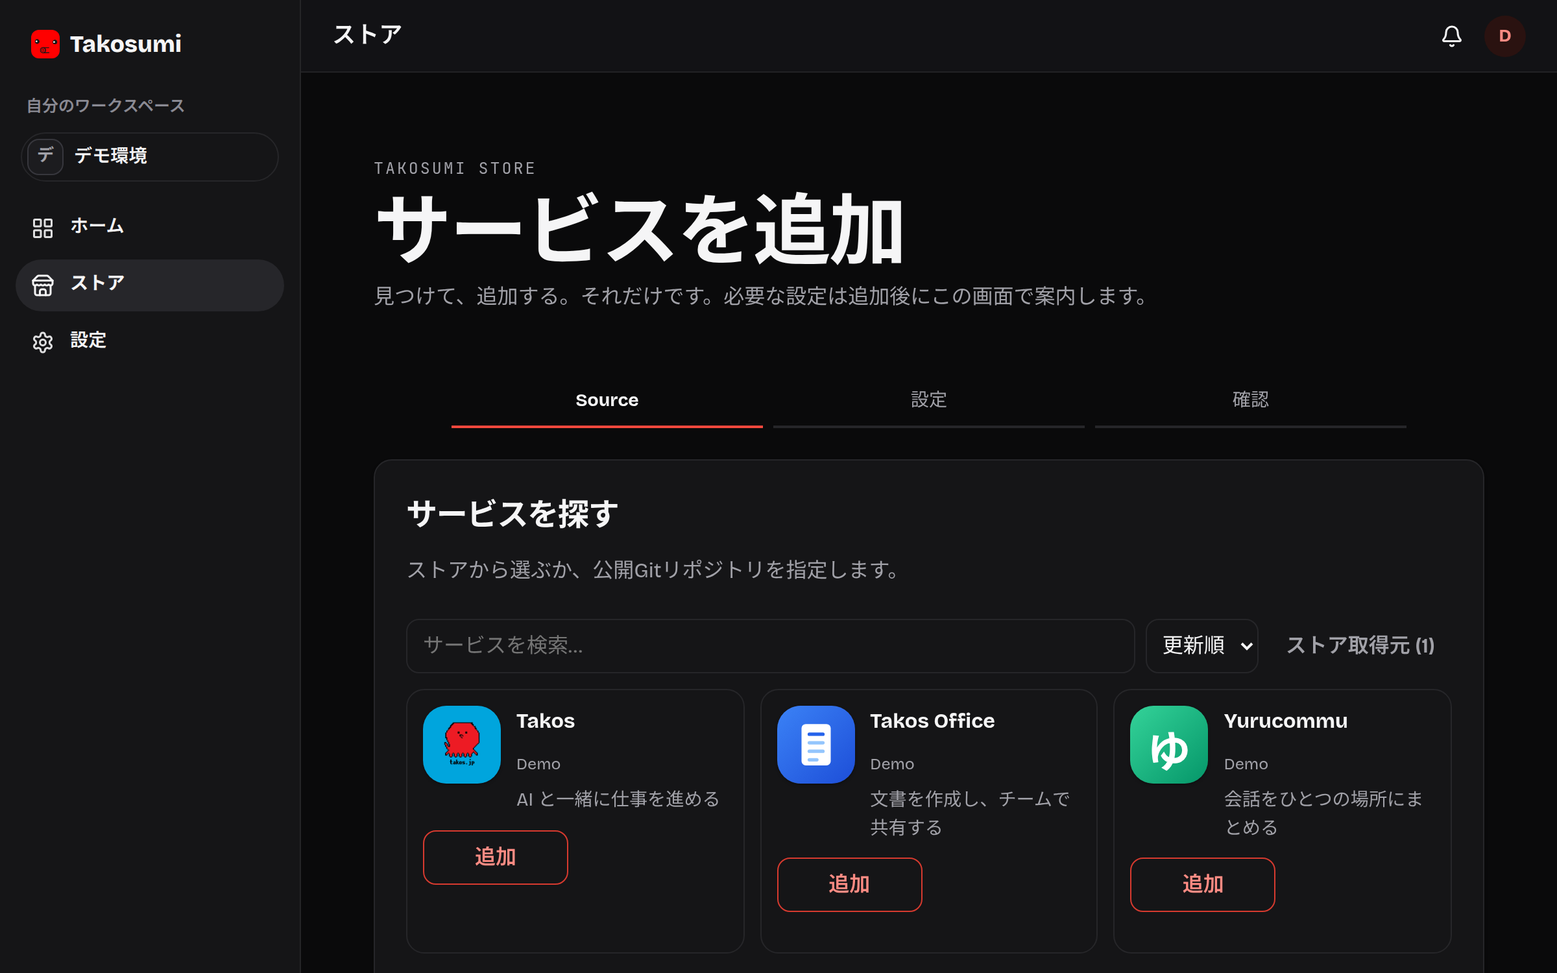
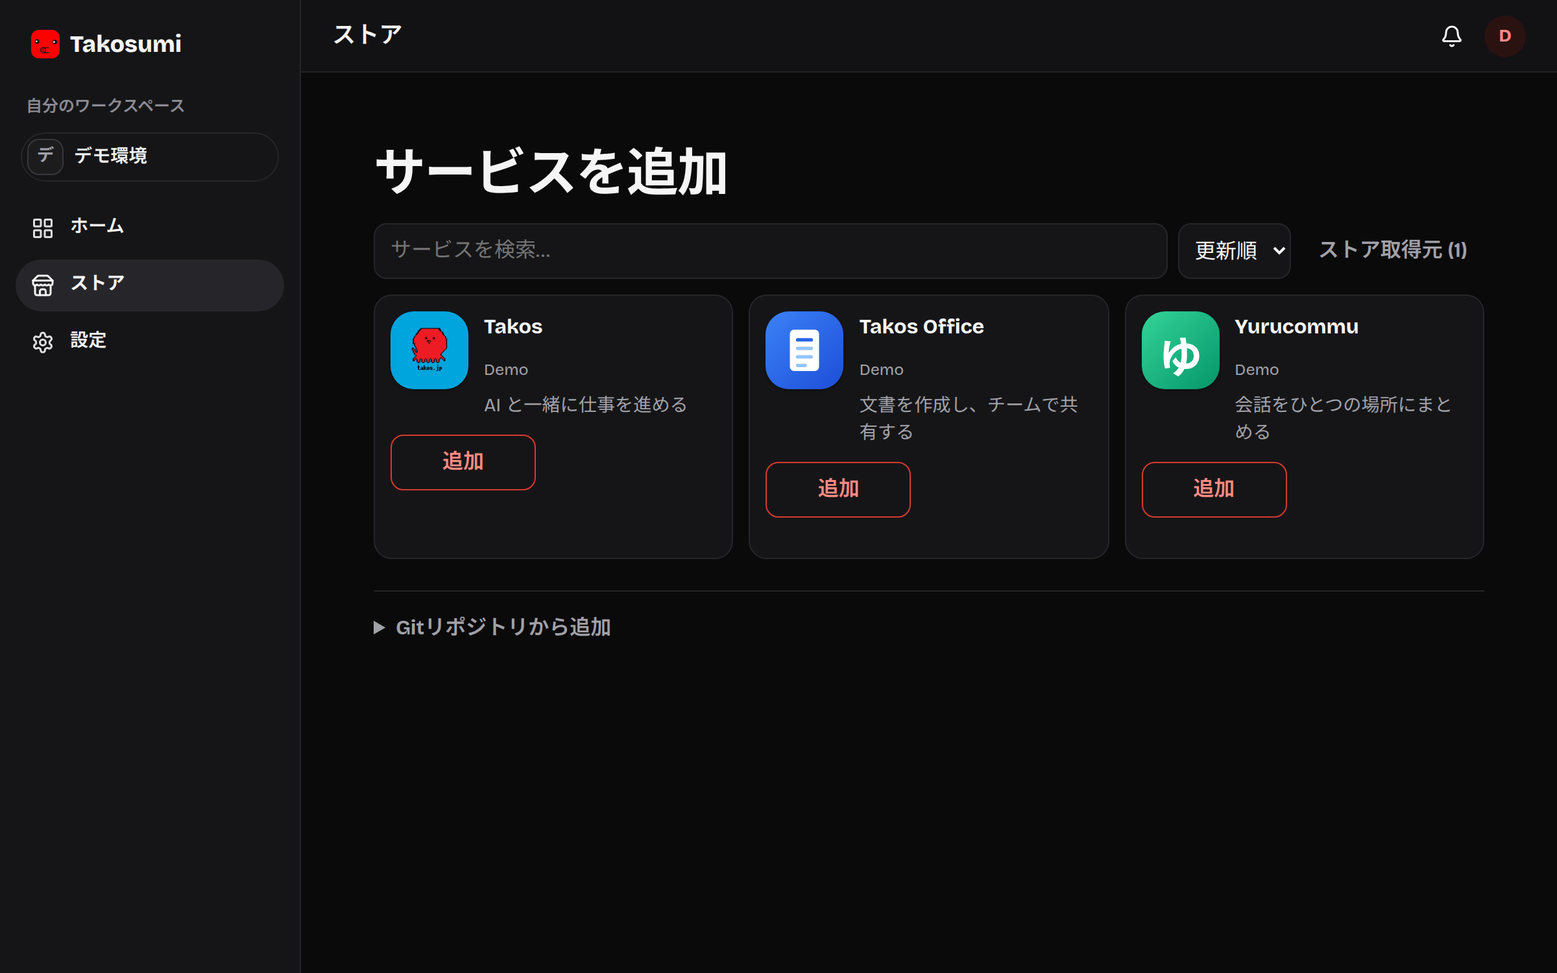
website: say what Takosumi is for and how adding an app works (#491)
* feat(website): add an interactive app installation walkthrough

* fix(website): show real dashboard screenshots in the hero

* fix(website): preserve full desktop screenshot proportions

* website: recapture the Store screens from the current dashboard

The landing's Store captures showed a 「Source」 tab and the heading
「見つけて、追加する。それだけです。」, neither of which the dashboard
has any more. The four Store images are recaptured with the documented
fixture script from the dashboard source at 46d87d185; a second run with
the documented Japanese font setup produced the same bytes, and Home
recaptured byte-identically, so its files are unchanged.

* website: say what adding an app involves, in the dashboard's terms

The landing described Takosumi as moving apps 「自分の環境へ」 three
times without saying what happens, said settings are checked after
adding (the dashboard asks for them before its review screen), and
called the review step 「承認」, a word the dashboard reserves for
deletions. An independent audit graded the value statement critical.

- The hero says what it is (open source apps installed like apps) and
  the actual sequence: choose, set connections and settings, check what
  will be created, then add, and open from the workspace home.
- The install section lists the dashboard's real steps (接続と設定,
  追加前の確認, 追加する), notes that changes with deletions wait for
  approval, links the Quickstart's screen-by-screen walkthrough, and
[…]

diff --git a/website/src/routes/index.tsx b/website/src/routes/index.tsx
@@ -49,8 +49,8 @@ function FeaturedAppRow(props: { app: FeaturedApp }) {
           <h3>{props.app.name}</h3>
           <p>{props.app.summary} {props.app.use}</p>
         </div>
-        <a class="featured-action" href={props.app.install} aria-label={props.app.name + "のインストール設定へ進む"}>
-          インストール設定へ <Arrow />
+        <a class="featured-action" href={props.app.install} aria-label={props.app.name + "の追加画面を開く"}>
+          追加画面を開く <Arrow />
         </a>
       </div>
       <details class="featured-details">
@@ -95,17 +95,17 @@ export default function Home() {
       <main id="main">
         <section class="hero site-width" aria-labelledby="site-title">
           <div class="hero-copy">
-            <h1 id="site-title">Takosumi</h1>
-            <p class="hero-lead">公開されたアプリを、<br />自分の環境へ。</p>
-            <p class="hero-description">Git の OpenTofu 定義を読み込み、接続先と設定を確認してインストール。入れたアプリも、変更も、ひとつのワークスペースから見渡せます。</p>
+            <div class="hero-identity"><img class="hero-mark" src="/tako.png" alt="" width="64" height="64" /><h1 id="site-title">Takosumi</h1></div>
+            <p class="hero-lead">公開されたオープンソースを、アプリのように入れて使う。</p>
+            <p class="hero-description">アプリを選んで接続と設定を入れ、作られるものを確かめてから追加します。<br class="desktop-break" />画面のあるアプリは、ワークスペースのホームから開けます。</p>
             <div class="hero-actions">
-              <a class="button button-primary" href="#apps">アプリを見つける <Arrow /></a>
-              <a class="text-link" href="https://app.takosumi.com/new">Git URL から追加 <Arrow /></a>
+              <a class="button button-primary" href="#apps">アプリを探す <span aria-hidden="true">↓</span></a>
+              <a class="button button-secondary" href="https://app.takosumi.com/new">Git URL から追加 <Arrow /></a>
             </div>
           </div>
           <figure class="hero-product">
-            <DashboardShot capture={DASHBOARD_CAPTURES.home} alt="Takosumi のダッシュボード。ワークスペース内のインストール済みアプリと追加操作が並ぶ" class="launcher-shot" priority />
-            <figcaption><span class="caption-dot" aria-hidden="true" /> Takosumi のダッシュボード（デモ画面）</figcaption>
+            <DashboardShot capture={DASHBOARD_CAPTURES.home} alt="Takosumi のホーム画面。ワークスペースに Takos、Takos Office、Yurucommu のアプリと追加操作が並ぶ" class="launcher-shot" priority />
+            <figcaption><span class="caption-dot" aria-hidden="true" /> Takosumi ダッシュボードの公開用サンプル画面</figcaption>
           </figure>
         </section>
 
@@ -126,39 +126,44 @@ export default function Home() {
         <section class="install-section" aria-labelledby="install-title">
           <div class="site-width install-layout">
             <div class="install-copy">
-              <p class="section-index">追加する</p>
-              <h2 id="install-title">選んで、<br />自分の環境へ。</h2>
-              <p>ストアでサービスを探すか、公開 Git リポジトリを指定して追加します。アプリごとに必要な接続先や設定は、追加後の画面で確認します。</p>
-              <a class="text-link" href="/docs/concepts/sources.html">ソースとインストールの仕組み <Arrow /></a>
+              <div class="install-intro">
+                <h2 id="install-title">追加する前に、<br />作られるものを確かめる。</h2>
+                <p>アプリを選ぶと、Takosumi は使う commit を固定してから、次の順に進みます。</p>
+              </div>
+              <ol class="add-steps">
+                <li><h3>接続と設定</h3><p>必要な接続を選び、アプリが求める項目を入れます。</p></li>
+                <li><h3>追加前の確認</h3><p>作成・変更・削除されるリソースの数を見ます。削除や作り直しを含む変更は、承認するまで進みません。</p></li>
+                <li><h3>追加する</h3><p>押したときに初めて反映されます。画面のあるアプリは、ホームから開けるようになります。</p></li>
+              </ol>
             </div>
             <figure class="install-product">
-              <DashboardShot capture={DASHBOARD_CAPTURES.install} alt="Takosumi のストアでサービスを探し、公開 Git ソースを選ぶ画面" class="install-shot" />
-              <figcaption>Takosumi のストアでソースを選ぶ画面</figcaption>
+              <DashboardShot capture={DASHBOARD_CAPTURES.install} alt="Takosumi のストア。Takos、Takos Office、Yurucommu にそれぞれ追加ボタンがあり、Git リポジトリからも追加できる" class="install-shot" />
+              <figcaption>ストアでアプリを選ぶ画面（Takosumi ダッシュボードを公開用デモデータで撮影）</figcaption>
             </figure>
           </div>
         </section>
 
         <section class="after-section site-width" aria-labelledby="after-title">
           <div class="after-intro">
-            <p class="section-index">使い続ける</p>
-            <h2 id="after-title">入れたあとも、<br />ここから。</h2>
-            <p>ホームからアプリを開き、設定や変更が必要になったら同じワークスペースへ戻れます。新しい Git の版を取り込むときも、確認した変更をもとに進めます。</p>
+            <h2 id="after-title">入れたあとの、<br />更新と記録。</h2>
+            <p>ホームからアプリを開き、設定や更新が必要になったら同じワークスペースへ戻ります。</p>
           </div>
           <div class="after-steps">
-            <div><h3>変更を見る</h3><p>OpenTofu の plan で作成・変更・削除を確認し、承認してから適用します。</p></div>
-            <div><h3>実行をたどる</h3><p>インストールや更新の実行履歴と結果を残し、あとから何が起きたか確認できます。</p></div>
-            <div><h3>アプリを管理する</h3><p>インストール済みのアプリ、接続先、設定をワークスペースで整理できます。</p></div>
+            <div><h3>危ない更新は止まる</h3><p>新しい版への更新でも自動更新でも、作り直しや削除を含む変更は、確認するまで反映されません。</p></div>
+            <div><h3>何が起きたかを残す</h3><p>どの commit を誰が反映し、何が変わったかを履歴に残します。</p></div>
+            <div><h3>鍵は読み出せない形で</h3><p>接続の API token は書き込み専用で保存され、変更の確認や反映を実行している間だけ、その処理に渡されます。</p></div>
           </div>
         </section>
 
         <section class="closing-section" aria-labelledby="closing-title">
           <div class="site-width closing-content">
             <div>
-              <h2 id="closing-title">自分のアプリを、<br />自分で選ぶ。</h2>
-              <p>Takosumi は Git と OpenTofu で定義されたものを、自分の環境で使い続けるための場所です。</p>
+              <h2 id="closing-title">まず、一つ追加してみる。</h2>
+              <p>公式ホスティングは Pre-GA です。Linux マシンと Docker などを用意すれば、クラウドの認証情報なしで手元でも試せます。</p>
             </div>
             <div class="closing-actions">
-              <a class="button button-primary" href="https://app.takosumi.com/">Takosumi を使う <Arrow /></a>
+              <a class="button button-primary" href="https://app.takosumi.com/">公式ホスティングで使う <Arrow /></a>
+              <a class="text-link" href="/docs/getting-started/quickstart.html">手元で試す（クイックスタート） <Arrow /></a>
               <a class="text-link" href="/docs/concepts/self-host.html">セルフホストについて <Arrow /></a>
             </div>
           </div>

diff --git a/website/src/styles/redesign.css b/website/src/styles/redesign.css
@@ -38,7 +38,6 @@ main { display: block; }
 .hero-product { margin: clamp(36px, 4vw, 60px) 0 0; }
 .dashboard-shot { overflow: hidden; border: 1px solid var(--tg-color-rule-strong); border-radius: var(--tg-radius-panel); background: var(--tg-color-surface); }
 .dashboard-shot img { width: 100%; height: auto; }
-.launcher-shot { max-height: 650px; }
 .hero-product figcaption, .install-product figcaption { margin-top: 14px; color: var(--tg-color-subtle); font-family: var(--tg-font-mono); font-size: .76rem; }
 .hero-product figcaption { display: flex; align-items: center; gap: 10px; }
 .caption-dot { width: 7px; height: 7px; border-radius: 50%; background: var(--tg-color-accent); }
@@ -77,12 +76,14 @@ main { display: block; }
 .section-note { margin: 25px 0 0; color: var(--tg-color-subtle); font-size: .8rem; }
 .install-section { background: var(--tg-color-surface); border-block: 1px solid var(--tg-color-rule); overflow: hidden; }
 .install-layout { display: grid; grid-template-columns: minmax(260px, .78fr) minmax(0, 1.22fr); align-items: center; gap: clamp(42px, 6vw, 88px); padding-block: 100px; }
-.section-index { margin: 0 0 24px; color: var(--tg-color-accent-ink); font-family: var(--tg-font-mono); font-size: .78rem; font-weight: 600; }
-.install-copy > p:not(.section-index) { max-width: 39ch; margin: 24px 0 25px; color: var(--tg-color-muted); line-height: 1.85; }
+.install-intro > p { max-width: 39ch; margin: 24px 0 25px; color: var(--tg-color-muted); line-height: 1.85; }
 .install-product { min-width: 0; margin: 0; }
-.install-shot { max-height: 570px; }
 .after-section { display: grid; grid-template-columns: minmax(0, 1fr) minmax(0, 1fr); gap: clamp(48px, 8vw, 126px); padding-block: 118px 130px; }
-.after-intro > p:not(.section-index) { max-width: 51ch; margin: 22px 0 0; color: var(--tg-color-muted); line-height: 1.85; }
+.after-intro > p { max-width: 51ch; margin: 22px 0 0; color: var(--tg-color-muted); line-height: 1.85; }
+.add-steps { margin: 26px 0 28px; padding: 0; list-style: none; border-top: 1px solid var(--tg-color-rule); }
+.add-steps li { padding: 16px 0 18px; border-bottom: 1px solid var(--tg-color-rule); }
+.add-steps h3 { margin: 0; font-size: 1.02rem; letter-spacing: -.01em; }
+.add-steps p { margin: 6px 0 0; color: var(--tg-color-muted); font-size: var(--tg-text-sm); line-height: 1.7; }
 .after-steps { border-top: 1px solid var(--tg-color-rule); }
 .after-steps > div { padding: 22px 0 26px; border-bottom: 1px solid var(--tg-color-rule); }
 .after-steps h3 { margin: 0; font-size: 1.2rem; letter-spacing: -.015em; }
@@ -100,7 +101,7 @@ main { display: block; }
 
 @media (max-width: 900px) {
   .install-layout { grid-template-columns: 1fr; gap: 38px; }
-  .install-copy > p:not(.section-index) { max-width: 62ch; }
+  .install-intro > p { max-width: 62ch; }
   .after-section { gap: 46px; }
 }
 @media (max-width: 640px) {
@@ -150,4 +151,51 @@ main { display: block; }
 @media (prefers-reduced-motion: reduce) {
   html { scroll-behavior: auto; }
   *, *::before, *::after { transition-duration: 0ms !important; animation-duration: 0ms !important; }
+}
+
+/* Compact product identity and real dashboard visual. */
+.site-header { border-bottom: 0; }
+.brand { font-weight: 650; letter-spacing: -.04em; }
+.site-header nav .nav-login { border-radius: 999px; padding-inline: 18px; }
+.hero { padding-block: clamp(54px, 6vw, 78px) 100px; }
+.hero-copy { max-width: none; text-align: center; }
+.hero-identity { display: flex; align-items: center; justify-content: center; gap: 16px; }
+.hero-mark { width: 64px; height: 64px; object-fit: contain; margin: 0; border-radius: 15px; }
+.hero h1 { font-size: var(--tg-text-display); font-weight: 560; line-height: 1.1; letter-spacing: -.055em; overflow-wrap: normal; }
+.hero-lead { max-width: none; margin: 20px 0 0; font-size: clamp(1.28rem, 2vw, 1.55rem); font-weight: 570; line-height: 1.35; letter-spacing: -.025em; }
+.hero-description { max-width: 650px; margin: 12px auto 0; font-size: clamp(.91rem, 1.3vw, 1.02rem); line-height: 1.68; }
+.hero-actions { justify-content: center; gap: 10px; margin-top: 23px; }
+.button { min-height: 51px; padding: 12px 24px; gap: 16px; border-radius: 999px; font-weight: 620; }
+.button-secondary { background: var(--tg-color-surface-2); color: var(--tg-color-ink); }
+.button-secondary:hover { background: var(--tg-color-rule-strong); color: var(--tg-color-ink); }
+.apps-section { border-top: 0; }
+.featured-app-main { padding-block: 30px 20px; }
+.featured-icon { border-radius: 16px; }
+.featured-action { border-radius: 999px; }
+.install-section { border-radius: 24px; margin-inline: 20px; border: 1px solid var(--tg-color-rule); }
+/* Copy and steps side by side, then the screen at full width so its text stays readable. */
+.install-layout { grid-template-columns: minmax(0, 1fr); gap: 48px; padding-block: 85px; }
+.install-copy { display: grid; grid-template-columns: minmax(0, .9fr) minmax(0, 1fr); gap: 32px 64px; align-items: start; }
+.install-copy .add-steps { margin: 0; }
+/* Break Japanese at phrase boundaries so short lines do not end on a lone kana. */
+main :is(h1, h2, h3, p, li, figcaption) { word-break: auto-phrase; text-wrap: pretty; }
+.hero-lead, .hero-description, main h2 { text-wrap: balance; }
+.install-copy h2 { font-size: clamp(2rem, 3.3vw, 2.8rem); }
+.after-section { padding-block: 130px; }
+.closing-section { margin-inline: 20px; border-radius: 24px; border: 1px solid var(--tg-color-rule); }
+
+@media (max-width: 900px) {
+  .install-copy { grid-template-columns: 1fr; }
+}
+@media (max-width: 640px) {
+  .hero { padding-block: 55px 75px; }
+  .hero-identity { gap: 10px; }
+  .hero-mark { width: 50px; height: 50px; }
+  .hero h1 { font-size: clamp(2.3rem, 10vw, 3.2rem); line-height: 1.18; }
+  .hero-lead { margin-top: 20px; font-size: 1.2rem; }
+  .hero-description { margin-top: 12px; font-size: .87rem; line-height: 1.7; }
+  .desktop-break { display: none; }
+  .hero-actions { gap: 8px; }
+  .hero-actions .button { padding-inline: 16px; font-size: .84rem; min-height: 46px; }
+  .install-section, .closing-section { margin-inline: 8px; border-radius: 15px; }
 }

diff --git a/website/index.html b/website/index.html
@@ -5,12 +5,12 @@
     <meta name="adring-site-verification" content="adring_vrf_YsZGc0CcS_JZmrU_-NnS4c7Pn6dhRQPC" />
     <meta name="viewport" content="width=device-width, initial-scale=1" />
     <title>Takosumi</title>
-    <meta name="description" content="Gitで公開されたアプリを、自分の環境へ。OpenTofu定義と接続・設定を確認してインストールし、Takosumiのワークスペースで管理できます。" />
+    <meta name="description" content="公開された OSS を、アプリのように入れて使う。必要な接続と設定を入れ、作られるものを確かめてから追加し、ワークスペースのホームから開けます。" />
     <link rel="canonical" href="https://takosumi.com/" />
     <meta property="og:site_name" content="Takosumi" />
     <meta property="og:locale" content="ja_JP" />
     <meta property="og:title" content="Takosumi" />
-    <meta property="og:description" content="Gitで公開されたアプリを、自分の環境へ。OpenTofu定義と接続・設定を確認してインストールし、Takosumiのワークスペースで管理できます。" />
+    <meta property="og:description" content="公開された OSS を、アプリのように入れて使う。必要な接続と設定を入れ、作られるものを確かめてから追加し、ワークスペースのホームから開けます。" />
     <meta property="og:url" content="https://takosumi.com/" />
     <meta property="og:type" content="website" />
     <meta property="og:image" content="https://takosumi.com/brand/og-cover.png" />
@@ -20,7 +20,7 @@
     <meta property="og:image:alt" content="Takosumi" />
     <meta name="twitter:card" content="summary_large_image" />
     <meta name="twitter:title" content="Takosumi" />
-    <meta name="twitter:description" content="Gitで公開されたアプリを、自分の環境へ。OpenTofu定義と接続・設定を確認してインストールし、Takosumiのワークスペースで管理できます。" />
+    <meta name="twitter:description" content="公開された OSS を、アプリのように入れて使う。必要な接続と設定を入れ、作られるものを確かめてから追加し、ワークスペースのホームから開けます。" />
     <meta name="twitter:image" content="https://takosumi.com/brand/og-cover.png" />
     <meta name="theme-color" content="#0a0a0b" />
     <!--takosumi-hydration-bootstrap-outlet-->
@@ -35,7 +35,7 @@
         "url": "https://takosumi.com/",
         "applicationCategory": "BusinessApplication",
         "operatingSystem": "Cross-platform",
-        "description": "Gitで公開されたアプリを、自分の環境へ。OpenTofu定義と接続・設定を確認してインストールし、Takosumiのワークスペースで管理できます。",
+        "description": "公開された OSS を、アプリのように入れて使う。必要な接続と設定を入れ、作られるものを確かめてから追加し、ワークスペースのホームから開けます。",
         "license": "https://www.gnu.org/licenses/agpl-3.0.html",
         "sameAs": ["https://github.com/tako0614/takosumi"]
       }

diff --git a/website/src/content/captures.ts b/website/src/content/captures.ts
@@ -25,9 +25,9 @@ export const CAPTURES = {
 /** Actual Takosumi dashboard views with browser-served public examples. */
 export const DASHBOARD_CAPTURES = {
   home: {
-    desktop: { src: "/screens/dashboard-home-desktop.png", width: 2400, height: 880 },
+    desktop: { src: "/screens/dashboard-home-desktop.png", width: 2400, height: 1500 },
     mobile: { src: "/screens/dashboard-home-mobile.png", width: 780, height: 1400 },
-    desktopLight: { src: "/screens/dashboard-home-desktop-light.png", width: 2400, height: 880 },
+    desktopLight: { src: "/screens/dashboard-home-desktop-light.png", width: 2400, height: 1500 },
     mobileLight: { src: "/screens/dashboard-home-mobile-light.png", width: 780, height: 1400 },
   },
   install: {

diff --git a/website/src/styles/tokens.css b/website/src/styles/tokens.css
@@ -28,12 +28,12 @@
   --tg-text-md: 1rem;
   --tg-text-lg: 1.125rem;
   --tg-text-xl: 1.5rem;
-  --tg-text-display: clamp(4.2rem, 10vw, 8.75rem);
+  --tg-text-display: clamp(2.75rem, 5vw, 4rem);
   --tg-ease-out: cubic-bezier(.2,.7,.2,1);
   --tg-dur-short: 140ms;
   --tg-rule-thin: 1px;
-  --tg-radius-control: 8px;
-  --tg-radius-panel: 14px;
+  --tg-radius-control: 999px;
+  --tg-radius-panel: 24px;
 }
 
 :root[data-theme="light"] {

diff --git a/website/scripts/capture-product-ui-provenance.md b/website/scripts/capture-product-ui-provenance.md
@@ -55,22 +55,29 @@ repository's portable browser fixture server. They were captured on
 2026-09-28. The original dark images came from checkout
 `d4b1c52f8434cb163ac76f1a4682baf564612acc`; the matching light images
 came from checkout `3820a6359e7e044d5283b662540f80212b3929d9`.
+The dark and light desktop Home images were refreshed on 2026-10-04 from
+checkout `0f9f6ac2e` with a full 1200 × 750 viewport. The four Store images were
+recaptured on 2026-10-15 from the dashboard source at `46d87d185`, because the
+earlier ones showed a 「Source」 tab and heading copy that the dashboard no
+longer has. Recapturing Home from the same source produced byte-identical
+images, so the Home files are unchanged.
 `capture-dashboard-ui.mjs` intercepts the public example session, Workspace,
 Capsule, and authorized `interface.ui.surface` list reads for the Home launcher,
 plus the TCS v2 Store discovery reads. The three products are illustrative:
 Takos, Takos Office, and Yurucommu, with `example.test` launch URLs and
 `github.com/example` source URLs. Their rows are shaped as the dashboard's
 real API projections; they do not describe installed production services or
-available official Store listings. The Store images show source selection,
-not completed configuration or installation. All non-GET requests and external browser requests are blocked. The
+available official Store listings. The Store images show the Store with
+three listings before one is chosen, not completed configuration or
+installation. All non-GET requests and external browser requests are blocked. The
 Takos icon is the current `website/public/apps/takos.png`; Office and
 Yurucommu use this repository's `dashboard/public/brand/` SVGs. All three
 are fulfilled locally at an illustrative icon origin.
 Browser runtime errors, failed HTTP requests or images, unexpected external
 requests, and missing product cards fail the capture.
 
-The desktop Home capture is a direct 1200 × 440 viewport clip; desktop Store
-uses a 1200 × 750 viewport. Mobile Home uses 390 × 700, and
+Desktop Home and Store both use the complete 1200 × 750 viewport, with no
+screenshot clip. Mobile Home uses 390 × 700, and
 mobile Store uses 390 × 950 so the first service card is readable.
 All use device scale 2, Japanese locale, loaded UI fonts, and Noto Sans JP as the system
 Japanese fallback. The script seeds the dashboard's own `tg_theme` preference
@@ -91,6 +98,8 @@ available as a Japanese sans fallback works. The script requires system Chrome,
 Takosumi's installed `@playwright/test`, and free port 5199. The fixture server
 does not write to a live Takosumi API. These are UI illustrations, not deploy,
 Run, or end-to-end proof.
-Pass `light` or `dark` instead of `all` to refresh one appearance only. Dark
+Pass `light` or `dark` instead of `all` to refresh one appearance only. Pass
+`desktop-home` as the second argument to refresh only the desktop Home images
+without rewriting the Store or mobile assets. Dark
 images keep their original filenames; light images use a `-light` suffix. The
 site's `<picture>` sources follow the operating system appearance and viewport.
